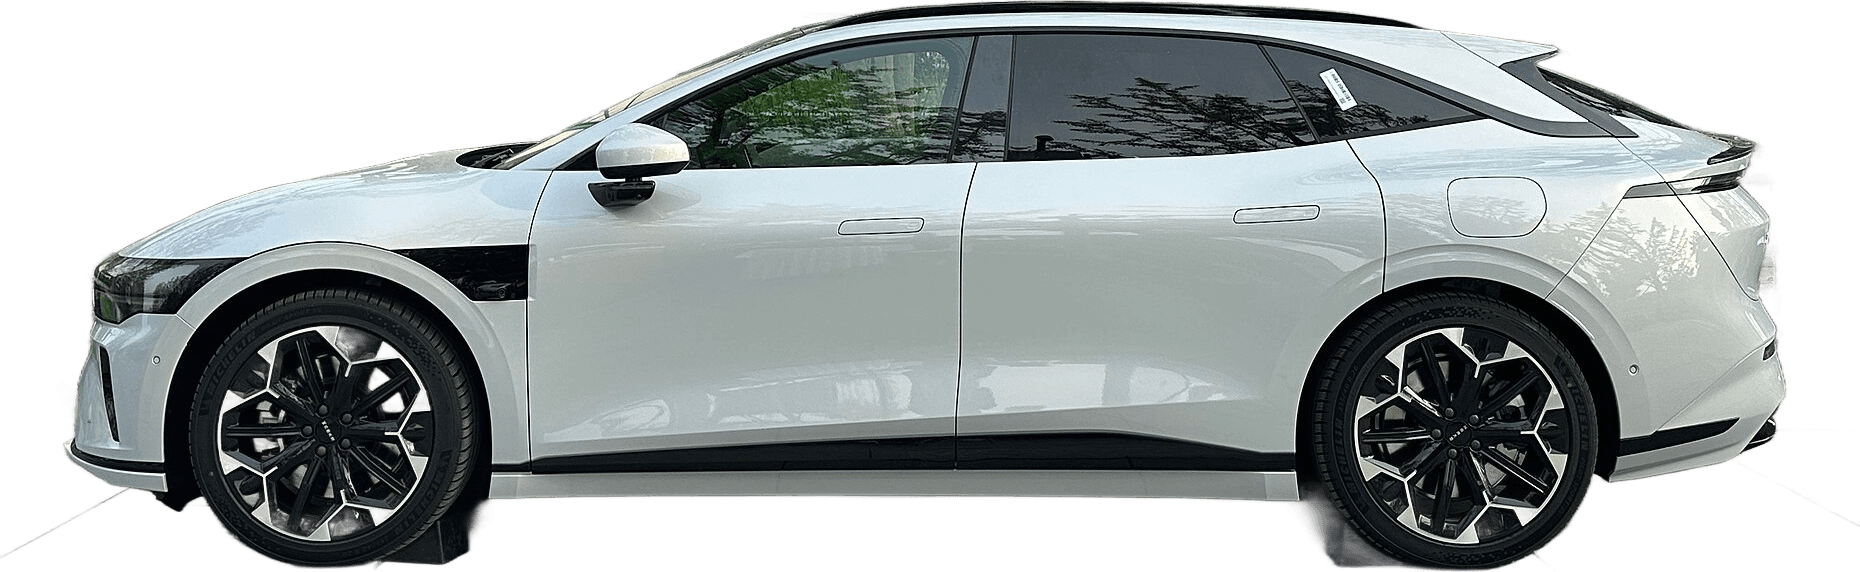
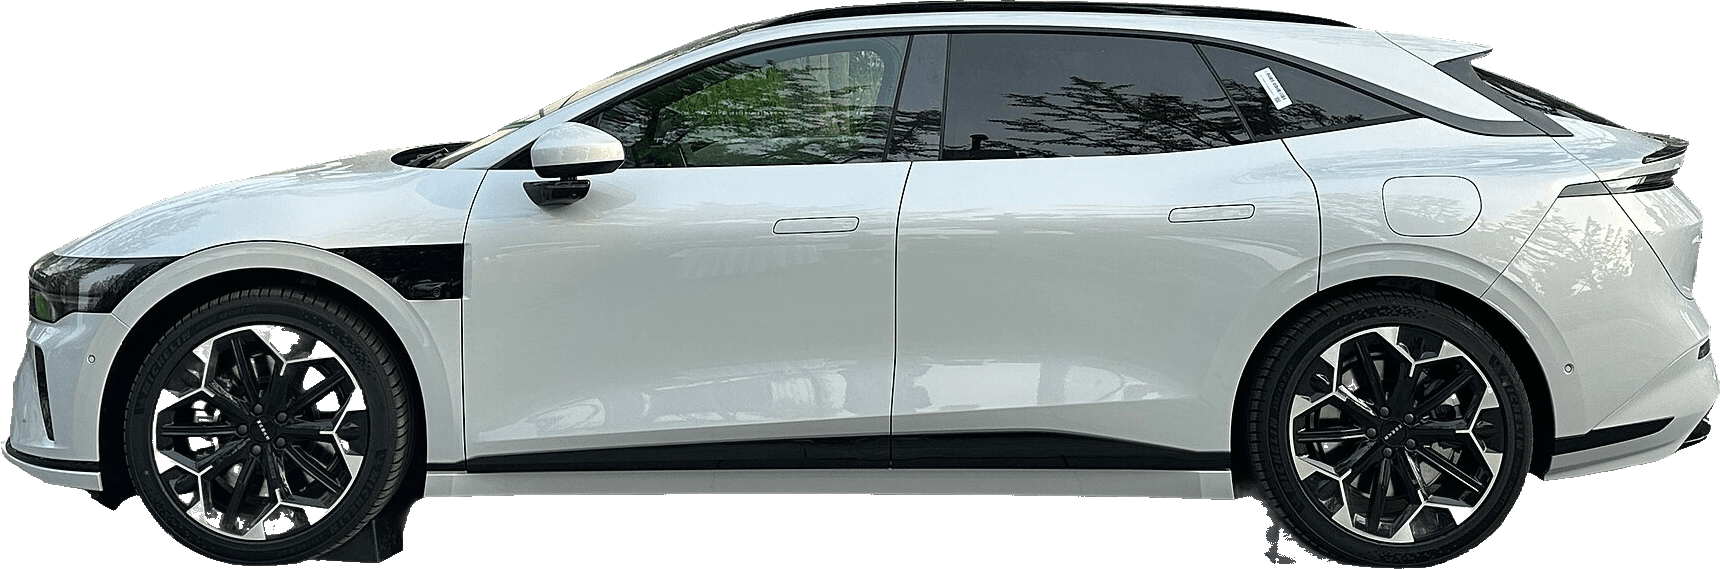
Fix Zeekr 7GT photo alignment with dimension box
The 7GT is the one non-carsized asset (a background-removed Wikimedia
photo). Its cutout left faint ground-shadow lines reaching all four
canvas edges, so the side view (which stretches each photo to the true
length x height box) mapped ~140px of phantom padding onto the real
length, rendering the car ~7% narrow and offset from the nose.

Cleaned the sub-threshold shadow pixels and re-cropped tight to the
car body so nose/tail/roof/tyre sit on the frame edges. It aligns with
the length/height arrows now; a slight perspective remains since it is
a photo, not an orthographic render (noted in the card).

Claude-Session: https://claude.ai/code/session_015wxgQAVynq3i4tZqMPY4wA

diff --git a/cars/zeekr-7gt.js b/cars/zeekr-7gt.js
@@ -23,7 +23,7 @@ registerCar({
       "author": "JustAnotherCarDesigner",
       "license": "CC0",
       "sourceUrl": "https://commons.wikimedia.org/wiki/File:Zeekr_007_GT_007.jpg",
-      "note": "Chinese-market 007 GT, sold in Europe as the 7GT; background removed, scaled to real dimensions."
+      "note": "Chinese-market 007 GT, sold in Europe as the 7GT; background removed. Faint ground-shadow lines cleaned and re-cropped tight to the car body (nose/tail/roof/tyre at the frame edges) so it aligns with the length/height box; note this is a photo, not an orthographic render, so a slight perspective remains."
     }
   },
 
